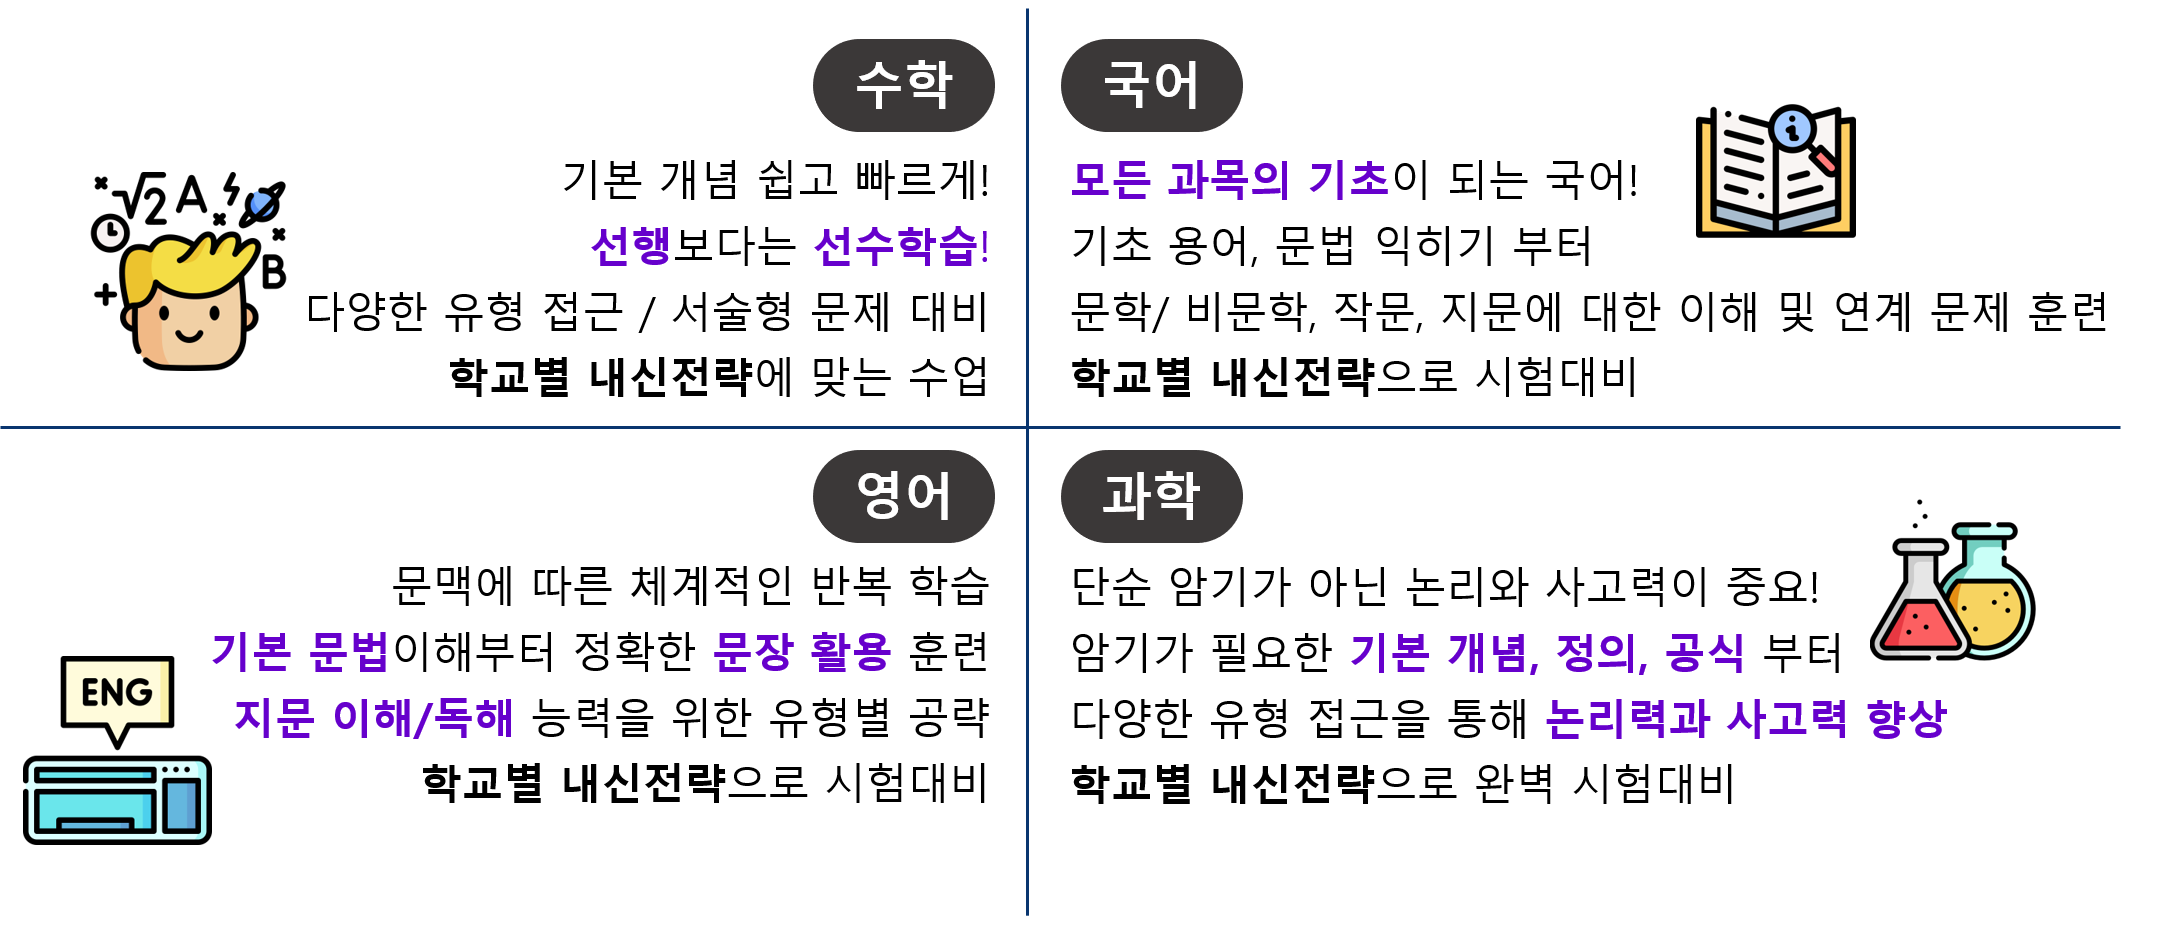
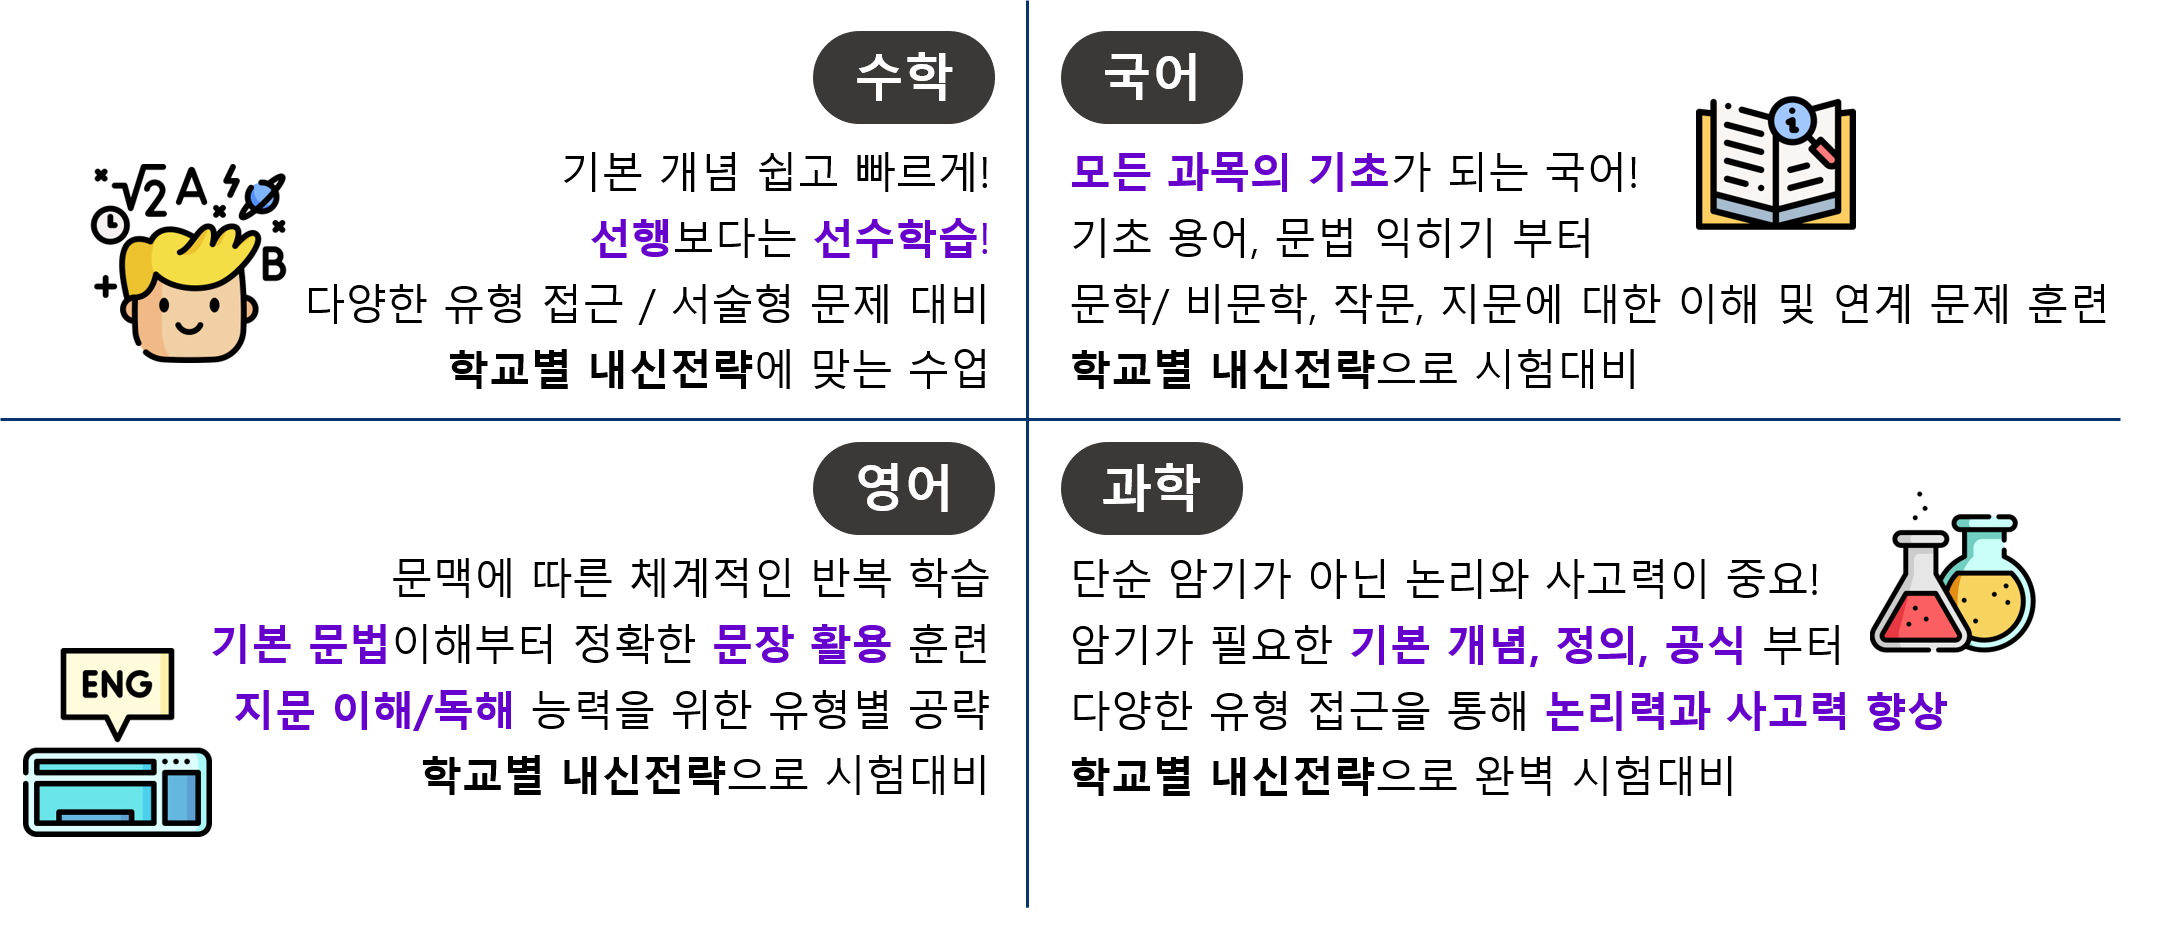
저는몰라용

Changed region(s): [[0.0, 0.0312, 0.994, 0.9365]]

diff --git a/index.html b/index.html
@@ -138,7 +138,7 @@
     <div class="container-fluid bg-stripe">
       <div class="row">
         <div class="col-sm-2"></div>
-        <div class="col-md-8 pd-10 col-sm-12">
+        <div class="col-md-8 pd-8 col-sm-12">
           <div class="subject_tit"  data-aos="fade-up"
           data-aos-duration="3000">
             <img src="images/sec2_title.png" alt="subject_banner">
@@ -152,10 +152,10 @@
       </div>
     </div>
    <!-- section 03 -->
-    <div class="container-fluid bg-light">
+    <div class="container-fluid bg-lblue">
       <div class="row">
         <div class="col-sm-2"></div>
-        <div class="col-md-8 pd-10 col-sm-12">
+        <div class="col-md-8 pt-8 col-sm-12">
           <div class="grade_tit"  data-aos="fade-up"
           data-aos-duration="3000">
             <img src="images/sec3_title.png" alt="teacher_banner">
@@ -173,20 +173,29 @@
             data-aos-duration="3000">
               <img src="images/high.png" alt="">
             </div>
-           
+
+            
           </div>
+          
         </div>
         <div class="col-2"></div>
       </div>
     </div>
        <!-- section 04 -->
-    <div class="container-fluid sad-bg">
+    <div class="container-fluid  pd-2010">
       <div class="row g-0">
         <div class="col-sm-2"></div>
         <div class="col-md-8" data-aos="fade-up"
         data-aos-duration="3000">
-          <img src="images/6-2.png" alt="">
+        <div class="section04img text-center">
+          <img src="images/section4-tit.png" alt="" class="pb-3">
+          <img src="images/6.png" alt="">
+        </div>
+      
+         
   
+        </div>
+         
         </div>
     </div>
    
@@ -220,7 +229,7 @@
     <!-- moblie section05 end -->
 
     <!-- section 06 -->
-    <div class="container-fluid pd-10 bg-light section6">
+    <div class="container-fluid pd-10 bg-lblue section6">
       <div class="row g-0">
         <div class="col-sm-2"></div>
         <div class="col-md-8 col-12 angry">
@@ -251,7 +260,7 @@
     </div>
 
      <!-- section 08 -->
-     <div class="container-fluid bg-light pd-10 section8">
+     <div class="container-fluid bg-lblue pd-10 section8">
       <div class="row g-0">
         <div class="col-sm-2"></div>
         <div class="col-md-8">
@@ -329,7 +338,7 @@
     </div>
     
     <!-- footer -->
-    <div class="container-fluid bg-light footer">
+    <div class="container-fluid bg-lblue footer">
       <div class="row g-0">
         <div class="col-sm-2"></div>
         <div class="col-md-8">

diff --git a/css/newstyle.css b/css/newstyle.css
@@ -5,7 +5,19 @@
 .pd-10{
     padding: 10% 0;
 }
+.pd-8{
+    padding: 8% 0;
+}
+.pt-8{
+    padding-top: 8%;
+}
+.pt-20{
+    padding-top: 20%;
+}
 
+.pd-2010{
+    padding: 20% 0 10%;
+}
 /* main_banner */
 .img-box img{
   width: 100%;
@@ -14,6 +26,9 @@
     width: 100%;
 } */
 
+.bg-lblue{
+    background: #f0f2f7;
+}
 
 /* section_01 */
 
@@ -61,14 +76,13 @@
     padding: 5% 5% 0% 5%;
 }
 /* section 03 */
-.sad-bg{
+/* .sad-bg{
     background-image: url(../images/6-3.png);
     background-repeat: no-repeat;
     background-size: cover;
-}
-.sad-bg img{
+} */
+.section04img img:last-child{
     width: 100%;
-    padding:8.5rem;
 }
 @media (max-width:767px){
     .sad-bg img{
